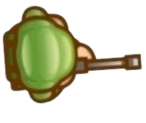
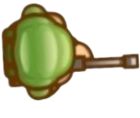
cursor fixes

diff --git a/src/game.py b/src/game.py
@@ -12,6 +12,7 @@ def game(SCREEN,TITLE_FONT,FONT,settings,scores):
     imagen_bullet = pygame.transform.scale(pygame.image.load(settings["BULLET_IMAGE"]),(settings["BULLET_WIDTH"],settings["BULLET_HEIGHT"]))
     imagen_vault = pygame.transform.scale(pygame.image.load(settings["VAULT_IMAGE"]),(settings["VAULT_WIDTH"],settings["VAULT_HEIGHT"]))
     imagen_fondo = pygame.transform.scale(pygame.image.load(settings["BACKGROUND_IMAGE"]), settings["SIZE_SCREEN"])
+    mira_cursor =  pygame.transform.scale(pygame.image.load(settings["MIRA_CURSOR"]),settings["AIM_SIZE"])
 
     #cargo sonidos
     gun_sound = pygame.mixer.Sound(settings["GUN_SOUND"])
@@ -43,13 +44,14 @@ def game(SCREEN,TITLE_FONT,FONT,settings,scores):
 
     # cargo musica
     pygame.mixer.music.load(settings["SUSPENSE_MUSIC"])
-    pygame.mixer.music.set_volume(0.7)
+    pygame.mixer.music.set_volume(0.5)
     pygame.mixer.music.play(-1)
     playing_music = True
 
     # bucle de juego
     while is_running:
         clock.tick(settings["FPS"])
+        pygame.mouse.set_visible(False)
 
         # analizar eventos
         for event in pygame.event.get():
@@ -200,6 +202,7 @@ def game(SCREEN,TITLE_FONT,FONT,settings,scores):
         show_text(SCREEN,(90,30),f"Round {ronda}",FONT,settings["WHITE"])
         show_text(SCREEN,(settings["WIDTH"]//2,30),f"Score {score}",FONT,settings["WHITE"])
         show_text(SCREEN,(settings["WIDTH"]-90,30),f"Lifes {vidas}",FONT,settings["WHITE"])
+        SCREEN.blit(mira_cursor,mouse_pos)
 
         # actualizar pantalla
         pygame.display.flip()
